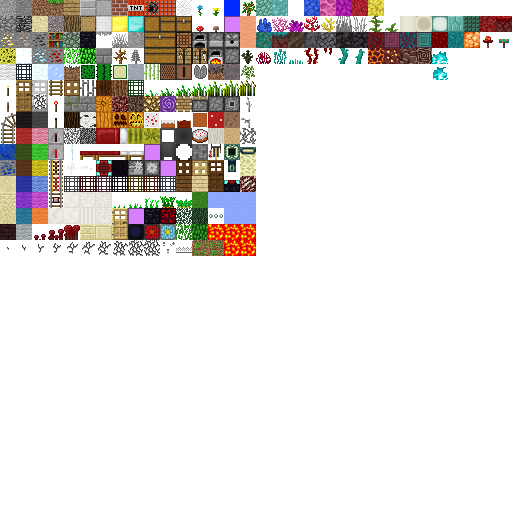
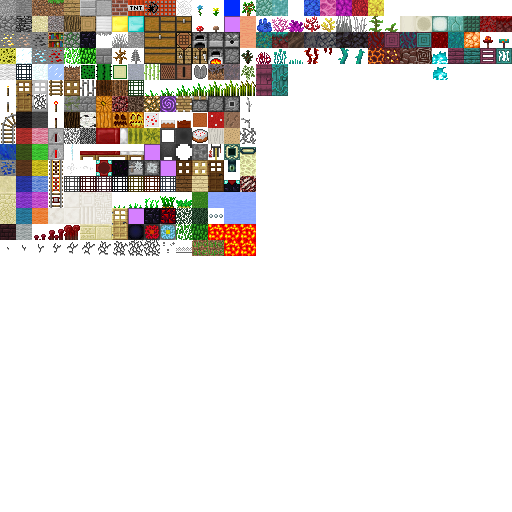
Nether Update, phase 3: crimson and warped carpentry
Planks are wood aux 3 (crimson) and 4 (warped), four from a stem of their
kind, with the given pictures; like the rest of Java's Nether wood they
never burn (FireTile::netherWood keeps fire from catching or spreading on
them). Stairs (218/219), slabs (the second slab set's types 4/5), fences
(220/221), fence gates (222/223), trapdoors (224/225) and doors (226/227,
items 178/179) in the usual shapes from their planks -- the spruce and
birch recipes' loop now covers four woods.

Claude-Session: https://claude.ai/code/session_017mH2AEpB4uvm7sSTXaKhRB

Changed region(s): [[0.875, 0.0938, 1.0, 0.125], [0.5, 0.125, 0.5625, 0.1875]]

diff --git a/handheld/src/world/level/tile/Tile.cpp b/handheld/src/world/level/tile/Tile.cpp
@@ -72,9 +72,9 @@ const int SANDSTONE_TEXTURE_COUNT = 3;
 Tile* Tile::stoneBrick  = NULL;
 Tile* Tile::redBrick    = NULL;
 Tile* Tile::wood        = NULL;
-// Planks: oak, spruce (dark) and birch. Index = WoodTile aux value
-const int WOOD_TEXTURES[] = { 4, 11 + 16 * 11, 12 + 16 * 11 };
-const int WOOD_TEXTURE_COUNT = 3;
+// Planks: oak, spruce (dark), birch, crimson, warped. Index = WoodTile aux value
+const int WOOD_TEXTURES[] = { 4, 11 + 16 * 11, 12 + 16 * 11, 316, 317 };
+const int WOOD_TEXTURE_COUNT = 5;
 Tile* Tile::sapling     = NULL;
 Tile* Tile::glass       = NULL;
 Tile* Tile::web	        = NULL;
@@ -189,6 +189,16 @@ Tile* Tile::magmaBlock = NULL;
 Tile* Tile::soulFire = NULL;
 Tile* Tile::netherGoldOre = NULL;
 Tile* Tile::ancientDebris = NULL;
+Tile* Tile::stairs_crimson = NULL;
+Tile* Tile::stairs_warped = NULL;
+Tile* Tile::fence_crimson = NULL;
+Tile* Tile::fence_warped = NULL;
+Tile* Tile::fenceGate_crimson = NULL;
+Tile* Tile::fenceGate_warped = NULL;
+Tile* Tile::trapdoor_crimson = NULL;
+Tile* Tile::trapdoor_warped = NULL;
+Tile* Tile::door_crimson = NULL;
+Tile* Tile::door_warped = NULL;
 Tile* Tile::prismarineBricks = NULL;
 Tile* Tile::darkPrismarine = NULL;
 Tile* Tile::stairs_prismarineBricks = NULL;
@@ -387,6 +397,18 @@ void Tile::initTiles() {
 	soulFire        = (new SoulFireTile(215, 315))->init()->setDestroyTime(0)->setLightEmission(10 / 16.0f)->setSoundType(SOUND_WOOD)->setDescriptionId("soulFire");
 	netherGoldOre   = (new NetherGoldOreTile(216, 312))->init()->setDestroyTime(3.0f)->setExplodeable(5)->setSoundType(SOUND_STONE)->setCategory(ItemCategory::Structures)->setDescriptionId("netherGoldOre");
 	ancientDebris   = (new TopSideTile(217, 313, Material::stone))->init()->setDestroyTime(30.0f)->setExplodeable(1200)->setSoundType(SOUND_STONE)->setCategory(ItemCategory::Structures)->setDescriptionId("ancientDebris");
+	// Crimson and warped carpentry (phase 3): planks are wood aux 3/4
+	// (cells 316/317), trapdoors 318/319, doors 336/337 with their tops above.
+	stairs_crimson    = (new StairTile(218, wood, WoodTile::CRIMSON_PLANKS))->init()->setCategory(ItemCategory::Structures)->setDescriptionId("stairsCrimson");
+	stairs_warped     = (new StairTile(219, wood, WoodTile::WARPED_PLANKS))->init()->setCategory(ItemCategory::Structures)->setDescriptionId("stairsWarped");
+	fence_crimson     = (new FenceTile(220, 316))->init()->setDestroyTime(2.0f)->setExplodeable(5)->setSoundType(SOUND_WOOD)->setCategory(ItemCategory::Structures)->setDescriptionId("fenceCrimson");
+	fence_warped      = (new FenceTile(221, 317))->init()->setDestroyTime(2.0f)->setExplodeable(5)->setSoundType(SOUND_WOOD)->setCategory(ItemCategory::Structures)->setDescriptionId("fenceWarped");
+	fenceGate_crimson = (new FenceGateTile(222, 316))->init()->setDestroyTime(2.0f)->setExplodeable(5)->setSoundType(SOUND_WOOD)->setCategory(ItemCategory::Structures)->setDescriptionId("fenceGateCrimson");
+	fenceGate_warped  = (new FenceGateTile(223, 317))->init()->setDestroyTime(2.0f)->setExplodeable(5)->setSoundType(SOUND_WOOD)->setCategory(ItemCategory::Structures)->setDescriptionId("fenceGateWarped");
+	trapdoor_crimson  = (new TrapDoorTile(224, Material::wood, 318))->init()->setDestroyTime(3.0f)->setSoundType(SOUND_WOOD)->setCategory(ItemCategory::Structures)->setDescriptionId("trapdoorCrimson");
+	trapdoor_warped   = (new TrapDoorTile(225, Material::wood, 319))->init()->setDestroyTime(3.0f)->setSoundType(SOUND_WOOD)->setCategory(ItemCategory::Structures)->setDescriptionId("trapdoorWarped");
+	door_crimson      = (new DoorTile(226, Material::wood, 336, &Item::door_crimson))->init()->setDestroyTime(3.0f)->setSoundType(SOUND_WOOD)->setCategory(ItemCategory::Structures)->setDescriptionId("doorCrimson");
+	door_warped       = (new DoorTile(227, Material::wood, 337, &Item::door_warped))->init()->setDestroyTime(3.0f)->setSoundType(SOUND_WOOD)->setCategory(ItemCategory::Structures)->setDescriptionId("doorWarped");
 	// Bone block: sides 281, top and bottom 282. Sea lantern: 283.
 	boneBlock = (new BoneBlockTile(190, 281))->init()->setDestroyTime(2.0f)->setExplodeable(10)->setSoundType(SOUND_STONE)->setCategory(ItemCategory::Structures)->setDescriptionId("boneBlock");
 	seaLantern = (new SeaLanternTile(191, 283))->init()->setDestroyTime(0.3f)->setLightEmission(1.0f)->setSoundType(SOUND_GLASS)->setCategory(ItemCategory::Decorations)->setDescriptionId("seaLantern");

diff --git a/handheld/src/world/item/crafting/Recipes.cpp b/handheld/src/world/item/crafting/Recipes.cpp
@@ -291,12 +291,12 @@ Recipes::Recipes()
 	// Spruce and birch: the same shapes from their own planks. Fences, which
 	// oak makes from sticks alone, take planks and sticks.
 	{
-		Tile* fences[2] = { Tile::fence_spruce, Tile::fence_birch };
-		Tile* gates[2] = { Tile::fenceGate_spruce, Tile::fenceGate_birch };
-		Tile* traps[2] = { Tile::trapdoor_spruce, Tile::trapdoor_birch };
-		Item* doors[2] = { Item::door_spruce, Item::door_birch };
-		const int planks[2] = { WoodTile::SPRUCE_PLANKS, WoodTile::BIRCH_PLANKS };
-		for (int i = 0; i < 2; i++) {
+		Tile* fences[4] = { Tile::fence_spruce, Tile::fence_birch, Tile::fence_crimson, Tile::fence_warped };
+		Tile* gates[4] = { Tile::fenceGate_spruce, Tile::fenceGate_birch, Tile::fenceGate_crimson, Tile::fenceGate_warped };
+		Tile* traps[4] = { Tile::trapdoor_spruce, Tile::trapdoor_birch, Tile::trapdoor_crimson, Tile::trapdoor_warped };
+		Item* doors[4] = { Item::door_spruce, Item::door_birch, Item::door_crimson, Item::door_warped };
+		const int planks[4] = { WoodTile::SPRUCE_PLANKS, WoodTile::BIRCH_PLANKS, WoodTile::CRIMSON_PLANKS, WoodTile::WARPED_PLANKS };
+		for (int i = 0; i < 4; i++) {
 			ItemInstance plank(Tile::wood, 1, planks[i]);
 			addShapedRecipe(ItemInstance(fences[i], 3), //
 				"W#W", //
@@ -354,6 +354,14 @@ Recipes::Recipes()
 		"#", //
 
 		definition('#', ItemInstance(Tile::treeTrunk, 1, TreeTile::NORMAL_TRUNK)));
+
+	// The Nether's planks, from its stems; their stairs and slabs.
+	addShapedRecipe(ItemInstance(Tile::wood, 4, WoodTile::CRIMSON_PLANKS), "#", definition('#', Tile::crimsonStem));
+	addShapedRecipe(ItemInstance(Tile::wood, 4, WoodTile::WARPED_PLANKS), "#", definition('#', Tile::warpedStem));
+	addShapedRecipe(ItemInstance(Tile::stairs_crimson, 4), "#  ", "## ", "###", definition('#', ItemInstance(Tile::wood, 1, WoodTile::CRIMSON_PLANKS)));
+	addShapedRecipe(ItemInstance(Tile::stairs_warped, 4), "#  ", "## ", "###", definition('#', ItemInstance(Tile::wood, 1, WoodTile::WARPED_PLANKS)));
+	addShapedRecipe(ItemInstance(Tile::stoneSlabHalf2, 6, StoneSlabTile::CRIMSON_SLAB), "###", definition('#', ItemInstance(Tile::wood, 1, WoodTile::CRIMSON_PLANKS)));
+	addShapedRecipe(ItemInstance(Tile::stoneSlabHalf2, 6, StoneSlabTile::WARPED_SLAB), "###", definition('#', ItemInstance(Tile::wood, 1, WoodTile::WARPED_PLANKS)));
 
 	addShapedRecipe(ItemInstance(Tile::wood, 4, WoodTile::SPRUCE_PLANKS), //
 		"#", //

diff --git a/handheld/src/world/item/Item.cpp b/handheld/src/world/item/Item.cpp
@@ -107,6 +107,8 @@ Item* Item::sign = NULL;
 Item* Item::door_wood = NULL;
 Item* Item::brewingStand = NULL;
 Item* Item::door_spruce = NULL;
+Item* Item::door_crimson = NULL;
+Item* Item::door_warped = NULL;
 Item* Item::door_birch = NULL;
 
 Item* Item::bucket_empty = NULL;
@@ -293,6 +295,8 @@ void Item::initItems() {
 	//Item::minecart = (new MinecartItem(72, Minecart.RIDEABLE))->setIcon(7, 8)->setCategory(ItemCategory::Mechanisms)->setDescriptionId("minecart");
 	//Item::saddle = (new SaddleItem(73))->setIcon(8, 6)->setCategory(ItemCategory::Mechanisms)->setDescriptionId("saddle");
 	Item::brewingStand = (new TilePlanterItem(123, Tile::brewingStand))->setIcon(2, 9)->setCategory(ItemCategory::Decorations)->setDescriptionId("brewingStand");
+	Item::door_crimson = (new DoorItem(178, Material::wood, &Tile::door_crimson))->setIcon(4, 12)->setCategory(ItemCategory::Structures)->setDescriptionId("doorCrimson");
+	Item::door_warped  = (new DoorItem(179, Material::wood, &Tile::door_warped))->setIcon(5, 12)->setCategory(ItemCategory::Structures)->setDescriptionId("doorWarped");
 	Item::door_spruce = (new DoorItem(151, Material::wood, &Tile::door_spruce))->setIcon(0, 9)->setCategory(ItemCategory::Structures)->setDescriptionId("doorSpruce");
 	Item::door_birch = (new DoorItem(152, Material::wood, &Tile::door_birch))->setIcon(1, 9)->setCategory(ItemCategory::Structures)->setDescriptionId("doorBirch");
 	Item::door_iron = (new DoorItem(74, Material::metal))->setIcon(12, 2)->setCategory(ItemCategory::Structures)->setDescriptionId("doorIron");

diff --git a/handheld/src/world/level/tile/FireTile.h b/handheld/src/world/level/tile/FireTile.h
@@ -139,15 +139,20 @@ public:
         return false;
     }
 
+    /// Crimson and warped planks (wood, aux 3 and 4) never burn, as Java's.
+    static bool netherWood(LevelSource* level, int x, int y, int z) {
+        return level->getTile(x, y, z) == Tile::wood->id && level->getData(x, y, z) >= 3;
+    }
+
     // A block holding water neither burns nor keeps a fire going.
     bool canBurn(LevelSource* level, int x, int y, int z) {
-        if (level->isWaterlogged(x, y, z)) return false;
+        if (level->isWaterlogged(x, y, z) || netherWood(level, x, y, z)) return false;
         return flameOdds[level->getTile(x, y, z)] > 0;
     }
 
     int getFlammability(Level* level, int x, int y, int z, int odds) {
 
-        if (level->isWaterlogged(x, y, z)) return odds;
+        if (level->isWaterlogged(x, y, z) || netherWood(level, x, y, z)) return odds;
         int f = flameOdds[level->getTile(x, y, z)];
         if (f > odds) return f;
         return odds;
@@ -272,7 +277,7 @@ private:
 
     void checkBurn(Level* level, int x, int y, int z, int chance, Random* random) {
 
-		int odds = level->isWaterlogged(x, y, z) ? 0 : burnOdds[level->getTile(x, y, z)];
+		int odds = (level->isWaterlogged(x, y, z) || netherWood(level, x, y, z)) ? 0 : burnOdds[level->getTile(x, y, z)];
         if (random->nextInt(chance) < odds) {
             bool wasTnt = level->getTile(x, y, z) == Tile::tnt->id;
             if (random->nextInt(2) == 0) {

diff --git a/handheld/src/world/entity/player/Inventory.cpp b/handheld/src/world/entity/player/Inventory.cpp
@@ -132,6 +132,20 @@ void Inventory::setupDefault() {
 		Sel[5] =  addItem(new ItemInstance(Tile::wood));
 		addItem(new ItemInstance(Tile::wood, 1, WoodTile::SPRUCE_PLANKS));
 		addItem(new ItemInstance(Tile::wood, 1, WoodTile::BIRCH_PLANKS));
+		addItem(new ItemInstance(Tile::wood, 1, WoodTile::CRIMSON_PLANKS));
+		addItem(new ItemInstance(Tile::wood, 1, WoodTile::WARPED_PLANKS));
+		addItem(new ItemInstance(Tile::stairs_crimson));
+		addItem(new ItemInstance(Tile::stairs_warped));
+		addItem(new ItemInstance(Tile::stoneSlabHalf2, 1, StoneSlabTile::CRIMSON_SLAB));
+		addItem(new ItemInstance(Tile::stoneSlabHalf2, 1, StoneSlabTile::WARPED_SLAB));
+		addItem(new ItemInstance(Tile::fence_crimson));
+		addItem(new ItemInstance(Tile::fence_warped));
+		addItem(new ItemInstance(Tile::fenceGate_crimson));
+		addItem(new ItemInstance(Tile::fenceGate_warped));
+		addItem(new ItemInstance(Tile::trapdoor_crimson));
+		addItem(new ItemInstance(Tile::trapdoor_warped));
+		addItem(new ItemInstance(Item::door_crimson));
+		addItem(new ItemInstance(Item::door_warped));
 		Sel[2] = addItem(new ItemInstance(Tile::redBrick));
 
 #ifdef RPI

diff --git a/handheld/src/world/level/tile/StoneSlabTile.cpp b/handheld/src/world/level/tile/StoneSlabTile.cpp
@@ -11,7 +11,7 @@ const std::string StoneSlabTile::SLAB_NAMES[] = {
 };
 const int StoneSlabTile::SLAB_NAMES_COUNT = sizeof(SLAB_NAMES) / sizeof(std::string);
 const std::string StoneSlabTile::SLAB_NAMES2[] = {
-	"netherBrick", "quartz", "prismarineBricks", "darkPrismarine"
+	"netherBrick", "quartz", "prismarineBricks", "darkPrismarine", "crimson", "warped"
 };
 const int StoneSlabTile::SLAB_NAMES2_COUNT = sizeof(SLAB_NAMES2) / sizeof(std::string);
 
@@ -68,6 +68,8 @@ int StoneSlabTile::getTexture(int face, int data) {
 		if (data == QUARTZ_SLAB) return Tile::quartzBlock->getTexture(face, QuartzBlockTile::TYPE_DEFAULT);
 		if (data == PRISMARINE_BRICK_SLAB) return Tile::prismarineBricks->tex;
 		if (data == DARK_PRISMARINE_SLAB) return Tile::darkPrismarine->tex;
+		if (data == CRIMSON_SLAB) return Tile::wood->getTexture(face, WoodTile::CRIMSON_PLANKS);
+		if (data == WARPED_SLAB) return Tile::wood->getTexture(face, WoodTile::WARPED_PLANKS);
 		return Tile::netherBrick->tex;
 	}
     if (data == STONE_SLAB) {

diff --git a/handheld/src/client/gui/screens/touch/CreativeInventoryScreen.cpp b/handheld/src/client/gui/screens/touch/CreativeInventoryScreen.cpp
@@ -94,7 +94,7 @@ int CreativeInventoryScreen::sectionOf(const ItemInstance& item)
 	Item* const drinks[] = { Item::waterBottle, Item::awkwardPotion, Item::waterBreathingPotion, Item::unpoisonPotion, Item::mushroomStew };
 	if (self->isFood() || isOneOf(id, drinks, COUNT(drinks))) return FoodDrinks;
 	Item* const building[] = {
-		Item::door_wood, Item::door_iron, Item::door_spruce, Item::door_birch, Item::painting,
+		Item::door_wood, Item::door_iron, Item::door_spruce, Item::door_birch, Item::door_crimson, Item::door_warped, Item::painting,
 	};
 	if (isOneOf(id, building, COUNT(building))) return Building;
 	// Useful blocks: the brewing stand, the bed, the sign.

diff --git a/handheld/src/world/level/tile/Tile.h b/handheld/src/world/level/tile/Tile.h
@@ -249,6 +249,16 @@ public:
 	static Tile* soulFire;
 	static Tile* netherGoldOre;
 	static Tile* ancientDebris;
+	static Tile* stairs_crimson;
+	static Tile* stairs_warped;
+	static Tile* fence_crimson;
+	static Tile* fence_warped;
+	static Tile* fenceGate_crimson;
+	static Tile* fenceGate_warped;
+	static Tile* trapdoor_crimson;
+	static Tile* trapdoor_warped;
+	static Tile* door_crimson;
+	static Tile* door_warped;
 	static Tile* prismarineBricks;
 	static Tile* darkPrismarine;
 	static Tile* stairs_prismarineBricks;

diff --git a/handheld/src/world/item/WoodTileItem.h b/handheld/src/world/item/WoodTileItem.h
@@ -22,6 +22,10 @@ public:
             return super::getDescriptionId() + ".spruce";
         if (auxValue == WoodTile::BIRCH_PLANKS)
             return super::getDescriptionId() + ".birch";
+        if (auxValue == WoodTile::CRIMSON_PLANKS)
+            return super::getDescriptionId() + ".crimson";
+        if (auxValue == WoodTile::WARPED_PLANKS)
+            return super::getDescriptionId() + ".warped";
         // Oak keeps the plain "tile.wood" name
         return super::getDescriptionId();
     }

diff --git a/handheld/src/world/level/tile/WoodTile.h b/handheld/src/world/level/tile/WoodTile.h
@@ -14,6 +14,8 @@ public:
 	static const int OAK_PLANKS    = 0;
 	static const int SPRUCE_PLANKS = 1;
 	static const int BIRCH_PLANKS  = 2;
+	static const int CRIMSON_PLANKS = 3;	// from crimson stems; never burn
+	static const int WARPED_PLANKS  = 4;	// from warped stems; never burn
 
 	WoodTile(int id, const int* textures, int texCount, const Material* material)
 	:	super(id, textures, texCount, material)

diff --git a/handheld/src/world/level/tile/StoneSlabTile.h b/handheld/src/world/level/tile/StoneSlabTile.h
@@ -31,6 +31,8 @@ public:
 	static const int QUARTZ_SLAB = 1;
 	static const int PRISMARINE_BRICK_SLAB = 2;
 	static const int DARK_PRISMARINE_SLAB = 3;
+	static const int CRIMSON_SLAB = 4;
+	static const int WARPED_SLAB = 5;
 	static const std::string SLAB_NAMES2[];
 	static const int SLAB_NAMES2_COUNT;
 	static const int SLAB_NAMES_COUNT;

diff --git a/handheld/src/world/item/Item.h b/handheld/src/world/item/Item.h
@@ -151,6 +151,8 @@ public:
     static Item* brewingStand;
     static Item* door_spruce;
     static Item* door_birch;
+    static Item* door_crimson;
+    static Item* door_warped;
 
     static Item* bucket_empty;
     static Item* bucket_water;
